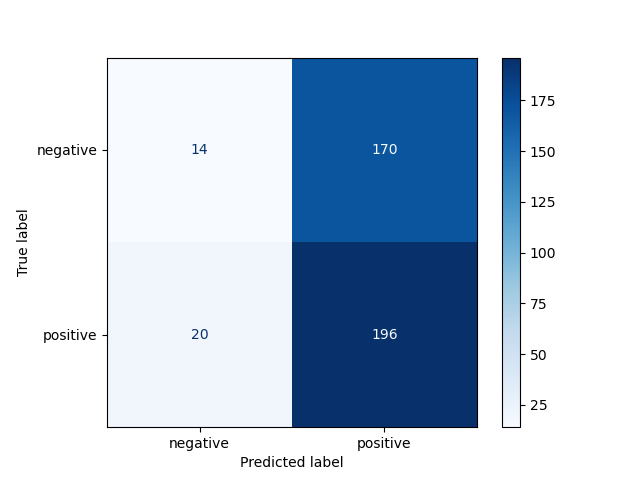
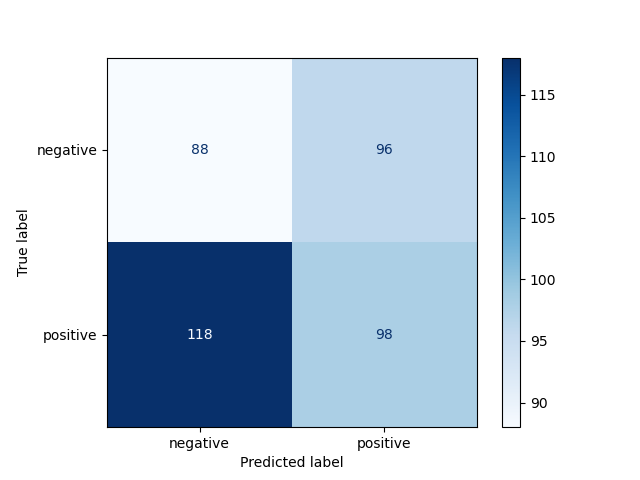
Updated readme for original, changed the binary_hybrid on the google drive to be the better one, and seperated the larger model training program into experiment 1.

diff --git a/experiment-1/train_hybrid_binary_larger.py b/experiment-1/train_hybrid_binary_larger.py
@@ -13,7 +13,7 @@ from sklearn.preprocessing import scale
 rowsx = []
 yx = []
 
-with open("data/train_binary_hybrid_BiLSTM_data.csv", 'r', encoding='latin1') as csv1:
+with open("data/test_binary_hybrid_BiLSTM_data.csv", 'r', encoding='latin1') as csv1:
     # creating a csv reader object
     csvreader1 = csv.reader(csv1)
     # extracting each data row one by one
@@ -39,7 +39,7 @@ for i in range(0,len(yx)):
 rowsx1 = []
 
 
-with open("data/train_binary_hybrid_ANN_data.csv", 'r', encoding='latin1') as csv1:
+with open("data/test_binary_hybrid_ANN_data.csv", 'r', encoding='latin1') as csv1:
     # creating a csv reader object
     csvreader1 = csv.reader(csv1)
     # extracting each data row one by one
@@ -136,5 +136,5 @@ model2.compile(optimizer=Adam(lr=1e-3),
               loss='binary_crossentropy',
               metrics=['accuracy'])
 
-model2.fit([x_train,x_train1], yx, epochs=10, batch_size=512)
-model2.save("data/binary_hybrid.h5")
+model2.fit([x_train,x_train1], yx, epochs=10, batch_size=2000)
+model2.save("experiment-1/models/binary_hybrid_larger.h5")

diff --git a/code/testBinaryHybrid.py b/code/testBinaryHybrid.py
@@ -88,7 +88,7 @@ model = load_model("data/binary_hybrid.h5")
 rowsx_t_1 = []
 yx_1 = []
 
-with open("experiment-1/tweets/datasets/big_tweets_bilstm.csv", 'r', encoding='latin1') as csv1:
+with open("data/test_binary_hybrid_BiLSTM_data.csv", 'r', encoding='latin1') as csv1:
     # creating a csv reader object
     csvreader1 = csv.reader(csv1)
 
@@ -113,7 +113,7 @@ for i in range(0,len(yx_1)):
 rowsx_t_2 = []
 
 
-with open("experiment-1/tweets/datasets/big_tweets_ANN.csv", 'r', encoding='latin1') as csv1:
+with open("data/test_binary_hybrid_ANN_data.csv", 'r', encoding='latin1') as csv1:
     # creating a csv reader object
     csvreader1 = csv.reader(csv1)
     # extracting each data row one by one

diff --git a/README.md b/README.md
@@ -53,12 +53,17 @@ It contains 3 folders.
 
 3) Move the contents from the foler named: Experiment 2 Models into experiment-2/models
 
-## Can't Download? Generate the models:
+## Can't Download? Train the models manually:
 
 
-In order to generated the binary_hybrid_larger.h5 model, run 
+The original model can be trained with: 
 ```shell
 python3 code/train_binary_hybrid.py
+```
+
+In order to generated the binary_hybrid_larger.h5 model, run this model is identical to the original papers however it is trained on the larger subset of data and tested on the smaller one, unlike the original papers.
+```shell
+python3 experiment-1/train_hybrid_binary_larger.py
 ``` 
 it will save the model to: results/binary_hybrid_larger.h5 move the .h5 file into the experiment-1/models folder.
 
@@ -69,9 +74,23 @@ Then run:
 python3 experiment-2/train_at_lstm.py
 ```
 
-Both of these may take 10 minutes to run.
+All of these may take 10 minutes to run each.
 
 # Running the models and Experiments
+
+## Original model:
+
+Train:
+
+```shell
+python3 code/train_binary_hybrid.py
+```
+
+Test:
+
+```shell
+python3 code/testBinaryHybrid.py
+```
 
 ## Experiment 1
 
